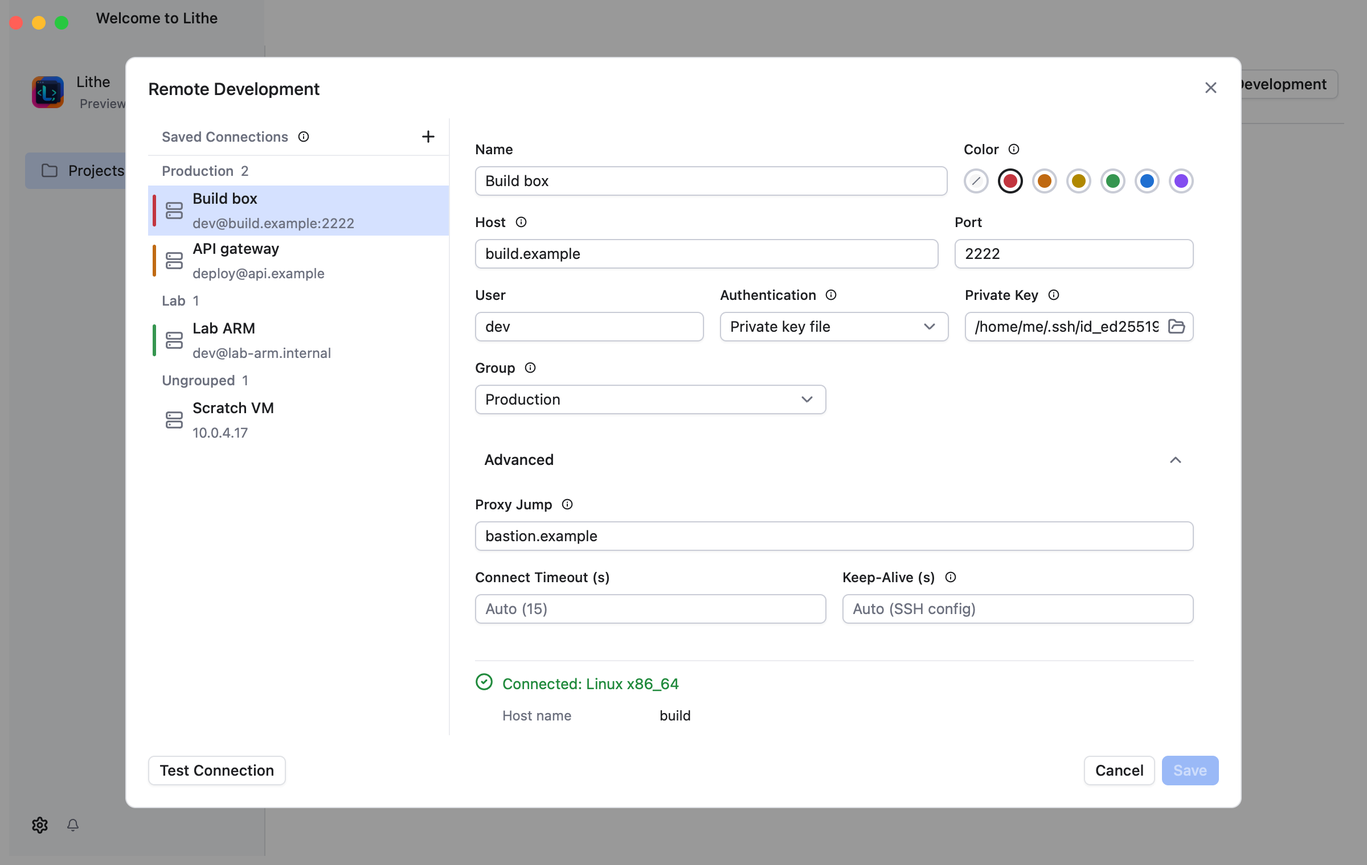
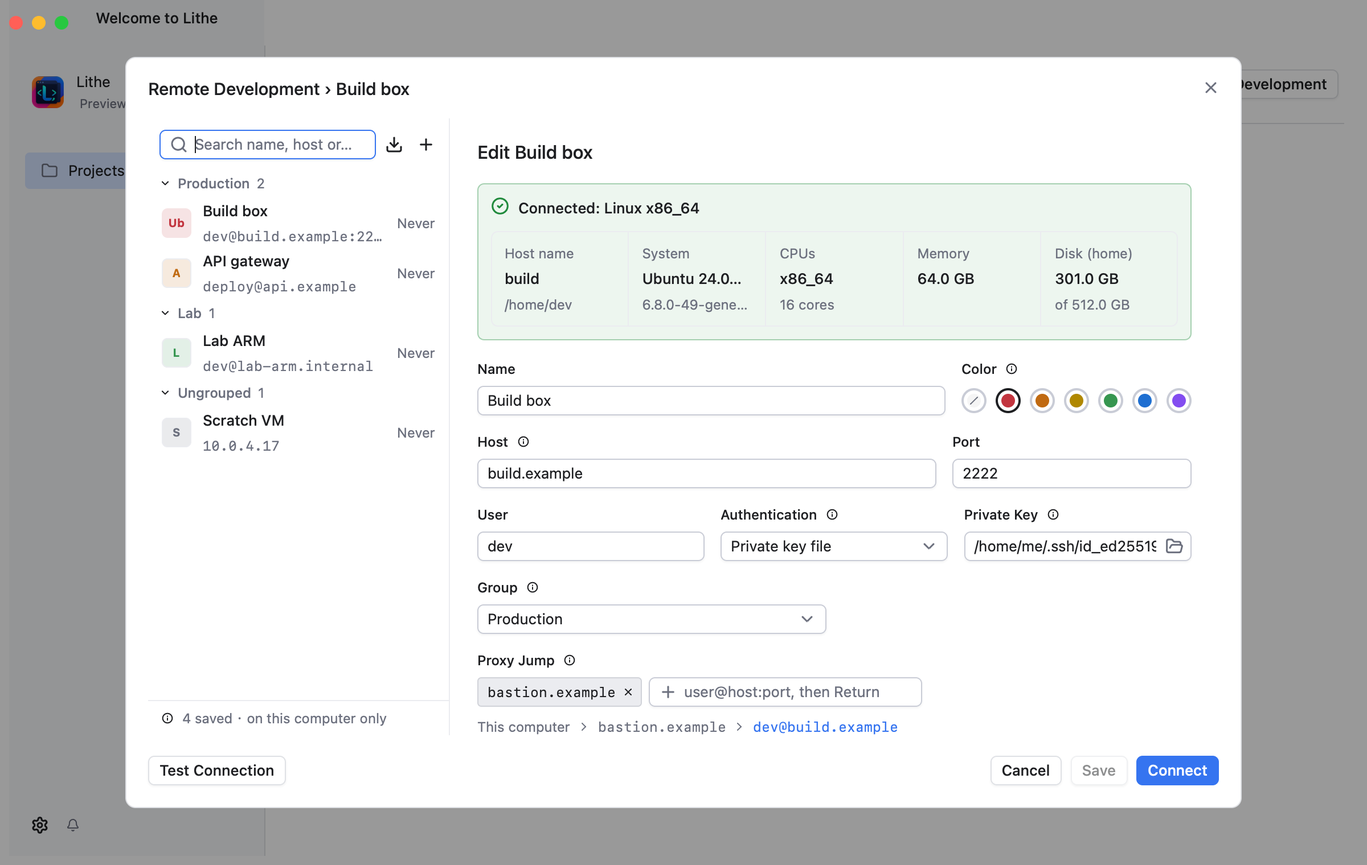
feat(desktop): 远程开发窗口补齐截图场景并修细节：图标用名称首字母、中文不用等宽字体 (#2231)
- 没测过的主机图标显示名称首字母，不再显示“?”（列表、概览、连接步骤、导入页）
- 概览地址与“经由跳板机”分开排版，跳板机说明、主机信息的核数与容量、生效设置的秒数改用正文字体，避免中文被等宽字体拉开字距
- 空列表提示改为“还没有保存的连接”
- 无头截图新增空页面、测试失败、连接步骤（主机密钥、密码、失败）、信任文件夹、Motty 导入，并更新截图说明

diff --git a/desktop/internal/workbench/remote_connections_visual_test.go b/desktop/internal/workbench/remote_connections_visual_test.go
@@ -8,14 +8,17 @@ import (
 	"testing"
 
 	"github.com/1lck/Lithe-IDEA/desktop/internal/core"
+	"github.com/1lck/Lithe-IDEA/desktop/internal/remoteconn"
 	"github.com/1lck/Lithe-IDEA/desktop/internal/store"
 	"github.com/vivaui/viva/app"
 	"github.com/vivaui/viva/headless"
 )
 
-// TestVisualRemoteConnections captures the Remote Development window: saved connections under
-// their groups with the tested one's overview, its form, a new connection whose host Core refused
-// under its field, and OpenSSH's password question over the window.
+// TestVisualRemoteConnections captures the Remote Development window: the first page with nothing
+// saved, saved connections under their groups with the tested one's overview, its form, a new
+// connection whose host Core refused under its field, OpenSSH's password question over the window,
+// a refused test, the connection steps with OpenSSH's questions on the page and a failure, the
+// question whether to trust a folder, and Motty's hosts to import.
 func TestVisualRemoteConnections(t *testing.T) {
 	out := os.Getenv("LITHE_VISUAL_OUTPUT_DIR")
 	if out == "" {
@@ -67,6 +70,10 @@ func TestVisualRemoteConnections(t *testing.T) {
 			h.app.openRemote(surfaceMenu)
 			h.settleChain()
 			r := &h.app.remote
+			// The counts come from this computer's Motty and ~/.ssh/config; the scenes show fixed
+			// ones instead.
+			r.imports = remoteImportCounts{loaded: true, motty: 4, sshConfig: 7}
+			shot("empty")
 
 			type saved struct {
 				name, host, port, user, authentication, identityFile, proxyJump, group string
@@ -104,6 +111,35 @@ func TestVisualRemoteConnections(t *testing.T) {
 					buildBox = entry.ID
 				}
 			}
+			// What `ssh -G` resolves comes from this computer's SSH configuration; the scenes show
+			// fixed values instead.
+			jump := core.RemoteEffectiveText{Value: "bastion.example", Source: core.RemoteSettingFromConnection}
+			for _, entry := range r.source.Connections {
+				user := entry.Connection.User
+				userSource := core.RemoteSettingFromConnection
+				if user == "" {
+					user, userSource = "dev", core.RemoteSettingDefault
+				}
+				port, portSource := uint32(entry.Connection.Port), core.RemoteSettingFromConnection
+				if port == 0 {
+					port, portSource = 22, core.RemoteSettingDefault
+				}
+				settings := core.RemoteEffectiveSettings{
+					HostName:              core.RemoteEffectiveText{Value: entry.Connection.Host, Source: core.RemoteSettingFromConnection},
+					Port:                  core.RemoteEffectiveNumber{Value: port, Source: portSource},
+					User:                  core.RemoteEffectiveText{Value: user, Source: userSource},
+					IdentityFiles:         core.RemoteEffectiveList{Value: []string{"~/.ssh/id_ed25519"}, Source: core.RemoteSettingFromSSHConfig},
+					ConnectTimeoutSeconds: core.RemoteEffectiveNumber{Value: 10, Source: core.RemoteSettingFromSSHConfig},
+					KeepAliveSeconds:      core.RemoteEffectiveNumber{Value: 30, Source: core.RemoteSettingDefault},
+				}
+				if entry.Name == "Build box" {
+					settings.ProxyJump = &jump
+				}
+				if r.effective == nil {
+					r.effective = map[core.SSHConnection]*remoteEffective{}
+				}
+				r.effective[remoteStored(entry.Connection)] = &remoteEffective{settings: settings}
+			}
 			r.selectEntry(buildBox)
 			h.app.testRemote()
 			h.settleChain()
@@ -136,6 +172,63 @@ func TestVisualRemoteConnections(t *testing.T) {
 			shot("password")
 			h.app.gitAuth.queue = nil
 			close(done)
+
+			refused := &remoteProbeOutcome{result: core.RemoteProbeResult{
+				Status:      core.RemoteProbeAuthenticationFailed,
+				Diagnostics: "dev@build.example: Permission denied (publickey,password).",
+			}, at: h.app.now()}
+			r.selectEntry(buildBox)
+			h.app.editSelectedRemote()
+			r.result = refused
+			r.log.Open = true
+			shot("test-failed")
+
+			// Connecting runs the steps on the page, with OpenSSH's questions under the step that
+			// asks them.
+			r.selectEntry(buildBox)
+			steps := newRemoteSteps(*r.entry(buildBox), "", h.app.now())
+			r.steps = steps
+			asked := make(chan struct{})
+			h.app.gitAuth.queue = []core.GitAuthChallenge{{
+				RequestID: "visual-key", Prompt: "Are you sure you want to continue connecting (yes/no/[fingerprint])? ",
+				Remote: true, Kind: core.RemoteQuestionHostKey, KeyType: "ED25519",
+				Fingerprint: "SHA256:7Yb0QaBf3c1uN0e9kVwq2XrJmZpT4sLhG8dEoUiAy6c", Attempt: 1, Done: asked,
+			}}
+			shot("steps-host-key")
+			steps.advance(h.app.now(), remoteStepAuthenticate)
+			h.app.gitAuth.queue = []core.GitAuthChallenge{{
+				RequestID: "visual-password", Prompt: "dev@build.example's password: ", Secret: true, Remote: true, Attempt: 1, Done: asked,
+			}}
+			shot("steps-password")
+			h.app.gitAuth.queue = nil
+			close(asked)
+			steps.fail(h.app.now(), refused, h.app.language())
+			r.log.Open = true
+			shot("steps-failed")
+			r.steps = nil
+
+			// The first time a folder opens, the window asks whether to trust it.
+			parent := "/home/dev"
+			r.trust = &remoteTrustPrompt{browser: &remoteBrowser{name: "Build box"}, dir: "/home/dev/project", trust: remoteconn.Trust{
+				State: core.RemoteWorkspaceTrustState{WorkspaceTrust: &core.RemoteWorkspaceTrustOf{
+					State: core.WorkspaceTrustUnset, Workspace: "/home/dev/project", OfferedLocation: &parent,
+				}},
+			}}
+			shot("trust")
+			r.trust = nil
+
+			r.importer = &remoteImporter{source: remoteImportMotty, keepGroups: true, keepColors: true,
+				motty: core.RemoteMottyHosts{Database: "~/Library/Application Support/Motty/config.db", Groups: []string{"Production", "Lab"},
+					Candidates: []core.RemoteMottyCandidate{
+						{Key: "1", Name: "Build box", Address: "dev@build.example:2222", Color: core.RemoteConnectionRed, Group: "Production", Status: core.RemoteImportExists, ExistingID: buildBox},
+						{Key: "2", Name: "Staging DB", Address: "postgres@db.staging.example", Color: core.RemoteConnectionBlue, Group: "Production", Status: core.RemoteImportable},
+						{Key: "3", Name: "GPU node", Address: "ml@gpu-07.lab.example", Color: core.RemoteConnectionPurple, Group: "Lab", Status: core.RemoteImportPartial},
+						{Key: "4", Name: "Router", Address: "admin@192.0.2.1", Group: "Lab", Status: core.RemoteImportUnsupported},
+					}},
+				mottyChosen: []bool{true, true, true, false},
+			}
+			shot("import")
+			r.importer = nil
 			h.app.closeRemote()
 			h.settleChain()
 		})

diff --git a/desktop/internal/workbench/remote_detail_view.go b/desktop/internal/workbench/remote_detail_view.go
@@ -167,7 +167,7 @@ func (a *App) remoteOverview(c ui.C, language i18n.Language, entry core.SavedRem
 func (a *App) remoteHero(c ui.C, language i18n.Language, entry core.SavedRemoteConnection, outcome *remoteProbeOutcome) {
 	r := &a.remote
 	ui.Row(c).FillWidth().Items(ui.Center).Gap(14).Children(func() {
-		a.remoteTile(c.Part("tile"), remoteSystemMark(outcome), entry.Color, remoteHeroTile, 15)
+		a.remoteTile(c.Part("tile"), remoteSystemMark(outcome), entry.Name, entry.Color, remoteHeroTile, 15)
 		ui.Column(c).Grow(1).Basis(0).MinWidth(0).Gap(5).Children(func() {
 			ui.Row(c).FillWidth().Items(ui.Center).Gap(8).Children(func() {
 				if tint, ok := remoteColor(a.colors.Dark, entry.Color); ok {
@@ -181,11 +181,13 @@ func (a *App) remoteHero(c ui.C, language i18n.Language, entry core.SavedRemoteC
 					a.remoteStatusPill(c.Part("live"), i18n.SharedFormat(language, "desktop.remote.connectedWindows", map[string]string{"count": strconv.Itoa(windows)}), a.colors.Success)
 				}
 			})
-			address := remoteAddress(entry.Connection)
-			if hops := remoteHopList(entry.Connection.ProxyJump); len(hops) > 0 {
-				address += "  ·  " + i18n.SharedFormat(language, "desktop.remote.viaHosts", map[string]string{"hosts": strings.Join(hops, " › ")})
-			}
-			ui.Text(c, address).Mono().FontSize(a.theme.Metrics.FontSizeS).Color(a.colors.Subtle).Ellipsis().MinWidth(0)
+			ui.Row(c.Part("address")).FillWidth().Gap(8).Items(ui.Center).Children(func() {
+				ui.Text(c, remoteAddress(entry.Connection)).Mono().FontSize(a.theme.Metrics.FontSizeS).Color(a.colors.Subtle).Ellipsis().Shrink(0).MinWidth(0)
+				if hops := remoteHopList(entry.Connection.ProxyJump); len(hops) > 0 {
+					ui.Text(c, "·  "+i18n.SharedFormat(language, "desktop.remote.viaHosts", map[string]string{"hosts": strings.Join(hops, " › ")})).
+						FontSize(a.theme.Metrics.FontSizeS).Color(a.colors.Subtle).Ellipsis().Shrink(1).MinWidth(0)
+				}
+			})
 		})
 		if ui.Button(c.Part("edit"), i18n.Shared(language, "desktop.remote.edit")).Icon(icons.Pencil).Outline().Shrink(0).Disabled(!r.editable()).Clicked() {
 			c.After(a.editSelectedRemote)
@@ -346,7 +348,7 @@ func (a *App) remoteHostGrid(c ui.C, language i18n.Language, host core.RemotePro
 				ui.Text(k, item.label).FontSize(small).Color(a.colors.Subtle).Ellipsis().MinWidth(0)
 				ui.Text(k, value).Weight(gfx.WeightMedium).Ellipsis().MinWidth(0)
 				if item.detail != "" {
-					ui.Text(k, item.detail).Mono().FontSize(small).Color(a.colors.Subtle).Ellipsis().MinWidth(0)
+					ui.Text(k, item.detail).FontSize(small).Color(a.colors.Subtle).Ellipsis().MinWidth(0)
 				}
 			})
 		}
@@ -420,6 +422,7 @@ func (a *App) remoteEffectiveTable(c ui.C, language i18n.Language, settings core
 	type line struct {
 		key, value string
 		source     core.RemoteSettingSource
+		words      bool
 	}
 	number := func(value core.RemoteEffectiveNumber, seconds bool) string {
 		text := strconv.FormatUint(uint64(value.Value), 10)
@@ -429,19 +432,19 @@ func (a *App) remoteEffectiveTable(c ui.C, language i18n.Language, settings core
 		return text
 	}
 	lines := []line{
-		{i18n.Shared(language, "desktop.remote.setting.hostName"), settings.HostName.Value, settings.HostName.Source},
-		{i18n.Shared(language, "desktop.remote.setting.user"), settings.User.Value, settings.User.Source},
-		{i18n.Shared(language, "desktop.remote.setting.port"), number(settings.Port, false), settings.Port.Source},
+		{i18n.Shared(language, "desktop.remote.setting.hostName"), settings.HostName.Value, settings.HostName.Source, false},
+		{i18n.Shared(language, "desktop.remote.setting.user"), settings.User.Value, settings.User.Source, false},
+		{i18n.Shared(language, "desktop.remote.setting.port"), number(settings.Port, false), settings.Port.Source, false},
 	}
 	if len(settings.IdentityFiles.Value) > 0 {
-		lines = append(lines, line{i18n.Shared(language, "desktop.remote.setting.identityFiles"), strings.Join(settings.IdentityFiles.Value, ", "), settings.IdentityFiles.Source})
+		lines = append(lines, line{i18n.Shared(language, "desktop.remote.setting.identityFiles"), strings.Join(settings.IdentityFiles.Value, ", "), settings.IdentityFiles.Source, false})
 	}
 	if jump := settings.ProxyJump; jump != nil && jump.Value != "" {
-		lines = append(lines, line{i18n.Shared(language, "desktop.remote.setting.proxyJump"), jump.Value, jump.Source})
+		lines = append(lines, line{i18n.Shared(language, "desktop.remote.setting.proxyJump"), jump.Value, jump.Source, false})
 	}
 	lines = append(lines,
-		line{i18n.Shared(language, "desktop.remote.setting.connectTimeout"), number(settings.ConnectTimeoutSeconds, true), settings.ConnectTimeoutSeconds.Source},
-		line{i18n.Shared(language, "desktop.remote.setting.keepAlive"), number(settings.KeepAliveSeconds, true), settings.KeepAliveSeconds.Source},
+		line{i18n.Shared(language, "desktop.remote.setting.connectTimeout"), number(settings.ConnectTimeoutSeconds, true), settings.ConnectTimeoutSeconds.Source, true},
+		line{i18n.Shared(language, "desktop.remote.setting.keepAlive"), number(settings.KeepAliveSeconds, true), settings.KeepAliveSeconds.Source, true},
 	)
 	small := a.theme.Metrics.FontSizeS
 	a.remoteBordered(c).Children(func() {
@@ -452,7 +455,10 @@ func (a *App) remoteEffectiveTable(c ui.C, language i18n.Language, settings core
 			}
 			ui.Row(k).FillWidth().Height(30).Items(ui.Center).Gap(10).PadX(12).Children(func() {
 				ui.Text(k, item.key).FontSize(small).Color(a.colors.Subtle).Width(140).Shrink(0).Ellipsis()
-				ui.Text(k, item.value).Mono().FontSize(small).Ellipsis().Grow(1).MinWidth(0)
+				value := ui.Text(k, item.value).FontSize(small).Ellipsis().Grow(1).MinWidth(0)
+				if !item.words {
+					value.Mono()
+				}
 				a.remotePill(k.Part("source"), remoteSourceName(language, item.source), a.colors.Subtle)
 			})
 		}

diff --git a/desktop/internal/workbench/remote_shell_view.go b/desktop/internal/workbench/remote_shell_view.go
@@ -2,6 +2,7 @@ package workbench
 
 import (
 	"strconv"
+	"strings"
 
 	"github.com/1lck/Lithe-IDEA/desktop/internal/core"
 	"github.com/1lck/Lithe-IDEA/desktop/internal/i18n"
@@ -205,7 +206,7 @@ func (a *App) remoteEntryRow(row ui.ListRow, language i18n.Language, entry core.
 	rc := row.C
 	small := a.theme.Metrics.FontSizeS
 	row.Element.Height(remoteRowHeight).Items(ui.Center).Gap(10).PadSides(0, 12, 0, 12)
-	a.remoteTile(rc.Part("tile"), remoteSystemMark(r.probedOutcome(entry.Connection)), entry.Color, 26, 10)
+	a.remoteTile(rc.Part("tile"), remoteSystemMark(r.probedOutcome(entry.Connection)), entry.Name, entry.Color, 26, 10)
 	ui.Column(rc).Grow(1).Basis(0).MinWidth(0).Gap(2).Children(func() {
 		ui.Text(rc, entry.Name).Weight(gfx.WeightMedium).Ellipsis().MinWidth(0)
 		ui.Text(rc, remoteAddress(entry.Connection)).Mono().FontSize(small).Color(a.colors.Subtle).Ellipsis().MinWidth(0)
@@ -221,9 +222,9 @@ func (a *App) remoteEntryRow(row ui.ListRow, language i18n.Language, entry core.
 }
 
 // remoteTile declares the square that marks a connection's host: the first letters of its system
-// on the connection's color, as the build tree marks its build systems, or a question mark on the
-// neutral background while the host was never tested.
-func (a *App) remoteTile(c ui.C, mark string, color core.RemoteConnectionColor, size, fontSize float32) {
+// on the connection's color, as the build tree marks its build systems, or the first letter of its
+// name, outlined, while the host was never tested.
+func (a *App) remoteTile(c ui.C, mark, name string, color core.RemoteConnectionColor, size, fontSize float32) {
 	tint, marked := remoteColor(a.colors.Dark, color)
 	if !marked {
 		tint = a.colors.Subtle
@@ -234,7 +235,7 @@ func (a *App) remoteTile(c ui.C, mark string, color core.RemoteConnectionColor, 
 	}
 	text := mark
 	if text == "" {
-		text = "?"
+		text = remoteNameMark(name)
 	}
 	tile := ui.Row(c).Size(size, size).Shrink(0).Center().Radius(size / 5).Background(tint.WithAlpha(alpha))
 	if mark == "" {
@@ -243,6 +244,14 @@ func (a *App) remoteTile(c ui.C, mark string, color core.RemoteConnectionColor, 
 	tile.Children(func() {
 		ui.Text(c, text).FontSize(fontSize).Weight(gfx.WeightBold).Color(tint)
 	})
+}
+
+// remoteNameMark is the first letter of name, upper-cased, or "?" for a name without one.
+func remoteNameMark(name string) string {
+	for _, r := range strings.TrimSpace(name) {
+		return strings.ToUpper(string(r))
+	}
+	return "?"
 }
 
 // remoteDot declares a round mark of color.

diff --git a/desktop/internal/i18n/shared.generated.go b/desktop/internal/i18n/shared.generated.go
@@ -1629,7 +1629,7 @@ var sharedCatalogs = map[string]map[string]string{
 		"desktop.remote.effective":                                 "Effective SSH settings",
 		"desktop.remote.effectiveFailed":                           "Could not read the effective settings: {reason}",
 		"desktop.remote.effectiveHelp":                             "What OpenSSH will use to connect, as `ssh -G` resolves this connection with your SSH configuration. Each value says whether it comes from this connection, the SSH configuration or OpenSSH's default.",
-		"desktop.remote.empty":                                     "No saved connections yet. Fill in the form and save it.",
+		"desktop.remote.empty":                                     "No saved connections",
 		"desktop.remote.empty.body":                                "Open a folder on the host as a workspace. The editor, terminal, Git and search work on the host; only the window runs here.",
 		"desktop.remote.empty.importMotty":                         "Import from Motty",
 		"desktop.remote.empty.importSsh":                           "Import from ~/.ssh/config",
@@ -5206,7 +5206,7 @@ var sharedCatalogs = map[string]map[string]string{
 		"desktop.remote.effective":                                 "生效的 SSH 设置",
 		"desktop.remote.effectiveFailed":                           "无法读取生效设置：{reason}",
 		"desktop.remote.effectiveHelp":                             "OpenSSH 实际连接时使用的值，由 `ssh -G` 结合你的 SSH 配置解析得出。每个值都标明来自本连接、SSH 配置还是 OpenSSH 默认值。",
-		"desktop.remote.empty":                                     "还没有保存的连接。填写右侧表单后保存。",
+		"desktop.remote.empty":                                     "还没有保存的连接",
 		"desktop.remote.empty.body":                                "把主机上的文件夹作为工作区打开。编辑器、终端、Git 和搜索都在主机上运行，本机只负责显示。",
 		"desktop.remote.empty.importMotty":                         "从 Motty 导入",
 		"desktop.remote.empty.importSsh":                           "从 ~/.ssh/config 导入",

diff --git a/desktop/internal/workbench/remote_steps.go b/desktop/internal/workbench/remote_steps.go
@@ -147,7 +147,7 @@ func (a *App) remoteStepsView(c ui.C, language i18n.Language, s *remoteSteps) {
 	ui.Scroll(c.Part("steps")).Fill().Children(func() {
 		ui.Column(c).FillWidth().Gap(18).PadSides(20, 24, 24, 24).Children(func() {
 			ui.Row(c.Part("head")).FillWidth().Items(ui.Center).Gap(14).Children(func() {
-				a.remoteTile(c.Part("tile"), remoteSystemMark(a.remote.probedOutcome(s.entry.Connection)), s.entry.Color, remoteHeroTile, 15)
+				a.remoteTile(c.Part("tile"), remoteSystemMark(a.remote.probedOutcome(s.entry.Connection)), s.entry.Name, s.entry.Color, remoteHeroTile, 15)
 				ui.Column(c).Grow(1).Basis(0).MinWidth(0).Gap(5).Children(func() {
 					ui.Text(c, title).FontSize(16).Weight(gfx.WeightSemibold).Ellipsis().MinWidth(0)
 					ui.Text(c, remoteAddress(s.entry.Connection)).Mono().FontSize(a.theme.Metrics.FontSizeS).Color(a.colors.Subtle).Ellipsis().MinWidth(0)

diff --git a/desktop/internal/workbench/remote_import.go b/desktop/internal/workbench/remote_import.go
@@ -334,7 +334,7 @@ func (a *App) remoteImportList(c ui.C, language i18n.Language, m *remoteImporter
 					if host.system != "" {
 						mark = remoteSystemMark(&remoteProbeOutcome{result: core.RemoteProbeResult{Host: &core.RemoteProbedHost{System: host.system}}})
 					}
-					a.remoteTile(k.Part("tile"), mark, host.color, 26, 10)
+					a.remoteTile(k.Part("tile"), mark, host.name, host.color, 26, 10)
 					color := a.colors.Text
 					if !host.choosable {
 						color = a.colors.Subtle

diff --git a/docs/assets/remote-connections/README.md b/docs/assets/remote-connections/README.md
@@ -1,21 +1,50 @@
 # 远程开发连接窗口（#2231）无头测试截图
 
-来自生产 Viva Page 的无头渲染。连接列表由真实 Core 写入测试临时偏好目录，颜色、分组和分组顺序都由 Core 保存和给出；“测试连接”的结果由测试替换的内核直接返回固定的主机信息，不启动 OpenSSH，密码询问由测试直接放入提问队列。截图里的主机、用户和路径都是虚构的。截图覆盖深色与浅色主题、中文与英文界面，用于确认：
+截图来自生产 Viva Page 的无头渲染。连接列表由真实 Core 写入测试的临时偏好目录，颜色、分组和分组顺序都由 Core 保存并返回。下列内容都由测试直接给出固定值，不读取本机配置，也不启动 OpenSSH：
 
-- 左侧列表按 Core 给出的分组列出连接，分组标题带数量，没有分组的连接排在最后的“未分组”下；每个连接左侧是它的颜色条；
-- 选中已保存的连接时右侧显示概览：颜色图标、名称、分组标签、地址和跳板机，“主机信息”显示这次运行中最近一次测试得到的系统、CPU、内存和磁盘，“连接设置”逐项列出设置，未填写的项显示它的回退规则，例如“自动（SSH 配置，否则 22）”；底部是“删除”“测试连接”“关闭”和“连接”，连接后的文件夹选择见 `docs/assets/remote-workspace`；
-- 点“编辑”后右侧换成表单：名称与颜色、主机与端口、用户名、身份验证与私钥、分组各占一行，高级选项折叠在下方；
-- 新建连接时可以选“新建分组…”并在旁边输入分组名；主机字段填了 `user@host` 时，Core 拒绝的原因显示在主机字段下方，没有写入列表；
-- OpenSSH 询问密码时，窗口上方弹出“SSH 身份验证”，提示原文照搬，输入框为密码框，说明答案只交给这次连接、不会保存。
+- “测试连接”的结果：由测试替换的内核返回固定的主机信息；
+- `ssh -G` 解析出的生效设置；
+- 空页面上 Motty 和 `~/.ssh/config` 的可导入数量；
+- 导入页的 Motty 主机；
+- OpenSSH 的主机密钥和密码询问。
 
-截图不代表 macOS/Windows 原生窗口验收。
+截图里的主机、用户、指纹和路径都是虚构的。截图覆盖深色与浅色主题、中文与英文界面，用于确认：
+
+- **空页面：** 左侧只有搜索、导入、新建和“还没有保存的连接”。右侧是“通过 SSH 连接 Linux 主机”：
+  - 一个 `user@host:22` 地址框，交给 Core 解析后填入新连接；
+  - “从 Motty 导入”和“从 ~/.ssh/config 导入”两张卡片，各显示可导入的主机数；
+  - “手动填写”。
+- **列表与概览：** 连接按 Core 给出的分组列出，分组可以折叠。每行显示：
+  - 图标：测过的主机显示系统名的前两个字母（Ubuntu 显示“Ub”），没测过的显示名称首字母，都用连接的颜色；
+  - 名称、地址和上次连接时间。
+- **概览页：** 选中连接后右侧显示：
+  - 顶部：图标、颜色点、名称、分组标签，地址后跟跳板机；
+  - 按钮：“编辑”、“⋯”和“打开文件夹…”；
+  - 各区块：“最近打开的文件夹”、“主机信息”（主机名、系统、CPU、内存、磁盘，以及测试时间和“重新测试”）、“生效的 SSH 设置”。生效设置逐项列出 `ssh -G` 解析出的值和来源（本连接 / SSH 配置 / 默认值）。
+- **编辑与新建：** 在表单中编辑连接，高级选项可以展开。主机字段填了 `user@host` 时，Core 拒绝的原因显示在主机字段下方，连接不会写入列表。测试失败时，结果显示在表单顶部，OpenSSH 的原始诊断默认展开。
+- **连接步骤：** 依次为读取配置、连接主机、身份验证、检查平台、安装服务端、启动会话：
+  - OpenSSH 的主机密钥询问显示在“连接主机”下方，带密钥类型和指纹，按钮为“拒绝”和“信任并继续”；
+  - 密码询问显示在“身份验证”下方；
+  - 失败时标出失败的步骤并展开诊断。
+- **SSH 密码询问（弹窗）：** 窗口上方弹出“SSH 身份验证”，提示原样显示。
+- **信任文件夹：** 第一次打开远程文件夹时询问是否信任，可以选择只信任这个文件夹或信任它的上级目录。
+- **导入：** 页面右上角在 Motty 和 `~/.ssh/config` 之间切换，并显示数据来源路径。可以选择保留分组和保留颜色。每台主机标出状态（可导入 / 部分导入 / 已存在 / 非 SSH），不能导入的主机不能勾选。底部显示已选择的数量。
+
+截图不能代替 macOS/Windows 原生窗口验收。
 
 | 场景 | 浅色英文 | 深色中文 |
 | --- | --- | --- |
+| 空页面 | [浅色英文](remote-connections-empty-light-en-US.png) | [深色中文](remote-connections-empty-dark-zh-CN.png) |
 | 已测试连接的概览 | [浅色英文](remote-connections-overview-light-en-US.png) | [深色中文](remote-connections-overview-dark-zh-CN.png) |
 | 编辑已保存的连接（展开高级选项） | [浅色英文](remote-connections-edit-light-en-US.png) | [深色中文](remote-connections-edit-dark-zh-CN.png) |
 | 新建连接：新分组，主机字段被拒绝 | [浅色英文](remote-connections-refused-light-en-US.png) | [深色中文](remote-connections-refused-dark-zh-CN.png) |
-| SSH 密码询问 | [浅色英文](remote-connections-password-light-en-US.png) | [深色中文](remote-connections-password-dark-zh-CN.png) |
+| SSH 密码询问（弹窗） | [浅色英文](remote-connections-password-light-en-US.png) | [深色中文](remote-connections-password-dark-zh-CN.png) |
+| 测试失败，诊断展开 | [浅色英文](remote-connections-test-failed-light-en-US.png) | [深色中文](remote-connections-test-failed-dark-zh-CN.png) |
+| 连接步骤：主机密钥询问 | [浅色英文](remote-connections-steps-host-key-light-en-US.png) | [深色中文](remote-connections-steps-host-key-dark-zh-CN.png) |
+| 连接步骤：密码询问 | [浅色英文](remote-connections-steps-password-light-en-US.png) | [深色中文](remote-connections-steps-password-dark-zh-CN.png) |
+| 连接步骤：失败 | [浅色英文](remote-connections-steps-failed-light-en-US.png) | [深色中文](remote-connections-steps-failed-dark-zh-CN.png) |
+| 是否信任远程文件夹 | [浅色英文](remote-connections-trust-light-en-US.png) | [深色中文](remote-connections-trust-dark-zh-CN.png) |
+| 从 Motty 导入 | [浅色英文](remote-connections-import-light-en-US.png) | [深色中文](remote-connections-import-dark-zh-CN.png) |
 
-复验：从仓库根目录设置绝对路径 `LITHE_VISUAL_OUTPUT_DIR="$(pwd)/docs/assets/remote-connections"`，在 `desktop/` 下通过
-`../scripts/desktop/desktop-go.sh test -tags vivahead,lithevisual ./internal/workbench -run '^TestVisualRemoteConnections$' -count=1 -timeout 180s` 生成。
+复验方法：在仓库根目录把 `LITHE_VISUAL_OUTPUT_DIR` 设为绝对路径 `"$(pwd)/docs/assets/remote-connections"`，然后在 `desktop/` 下运行
+`../scripts/desktop/desktop-go.sh test -tags vivahead,lithevisual ./internal/workbench -run '^TestVisualRemoteConnections$' -count=1 -timeout 300s`。
